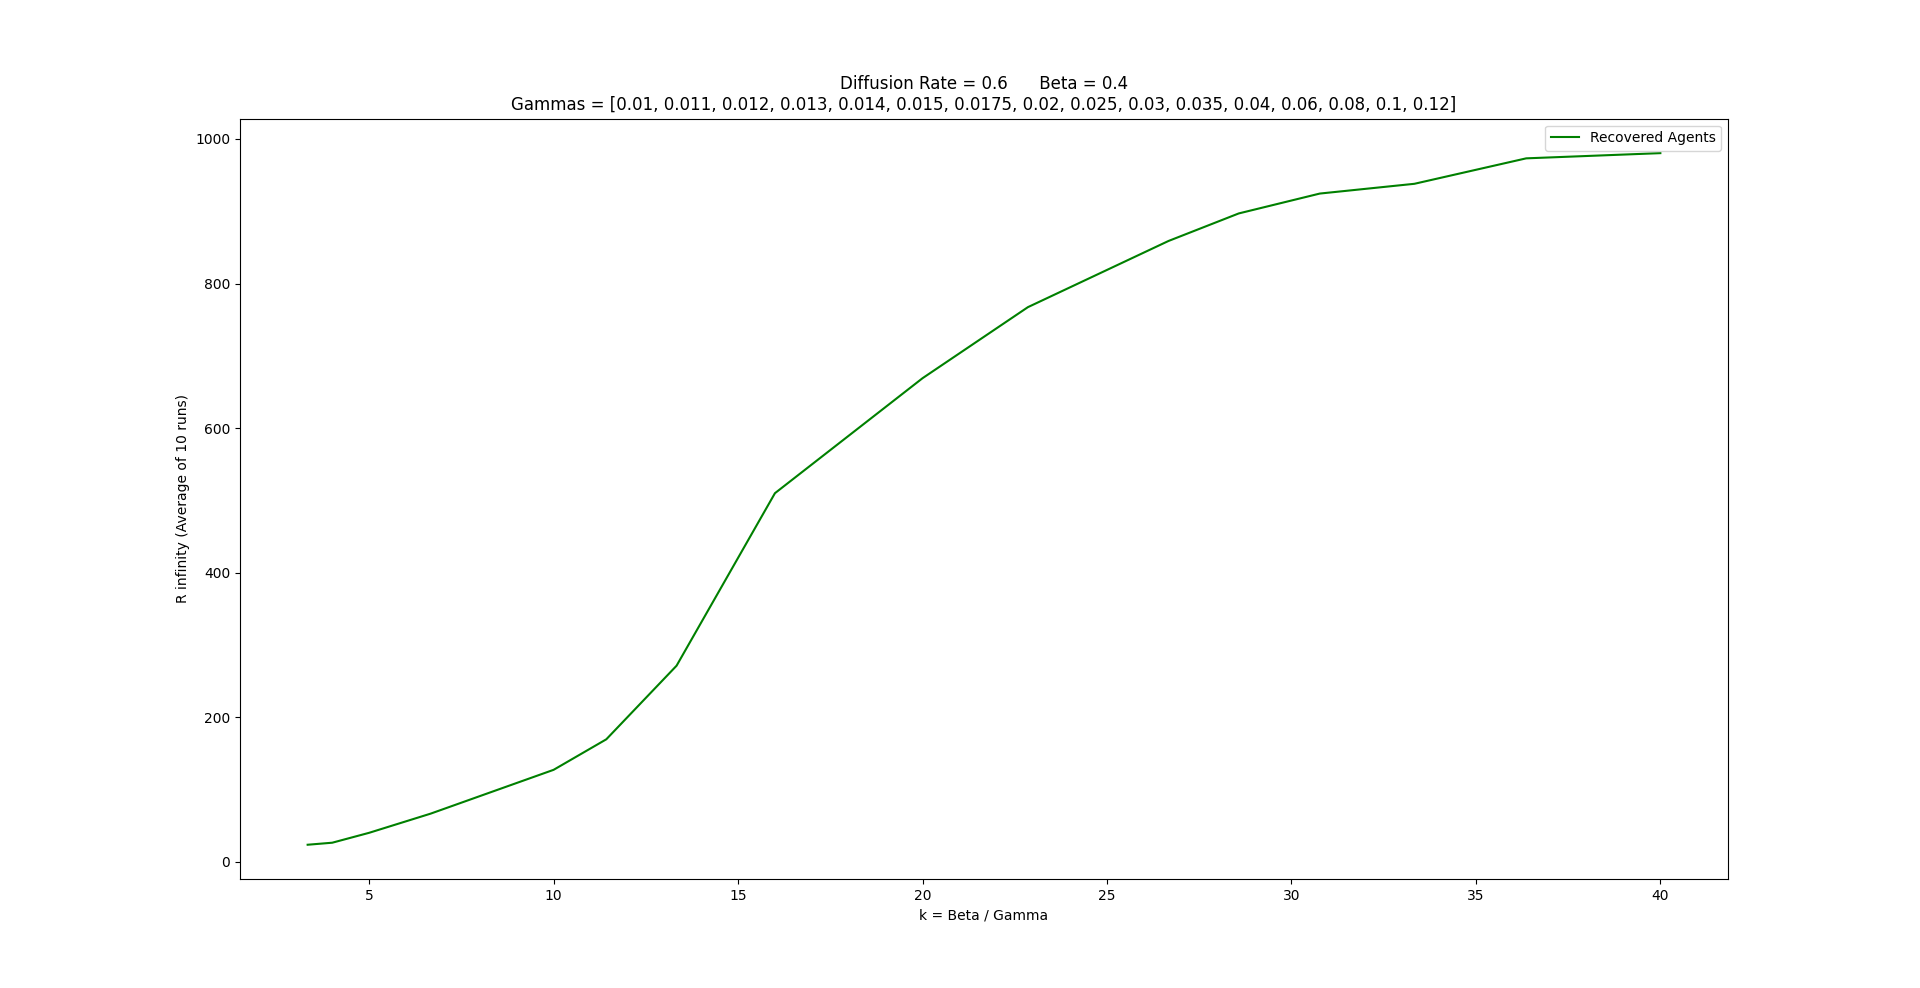
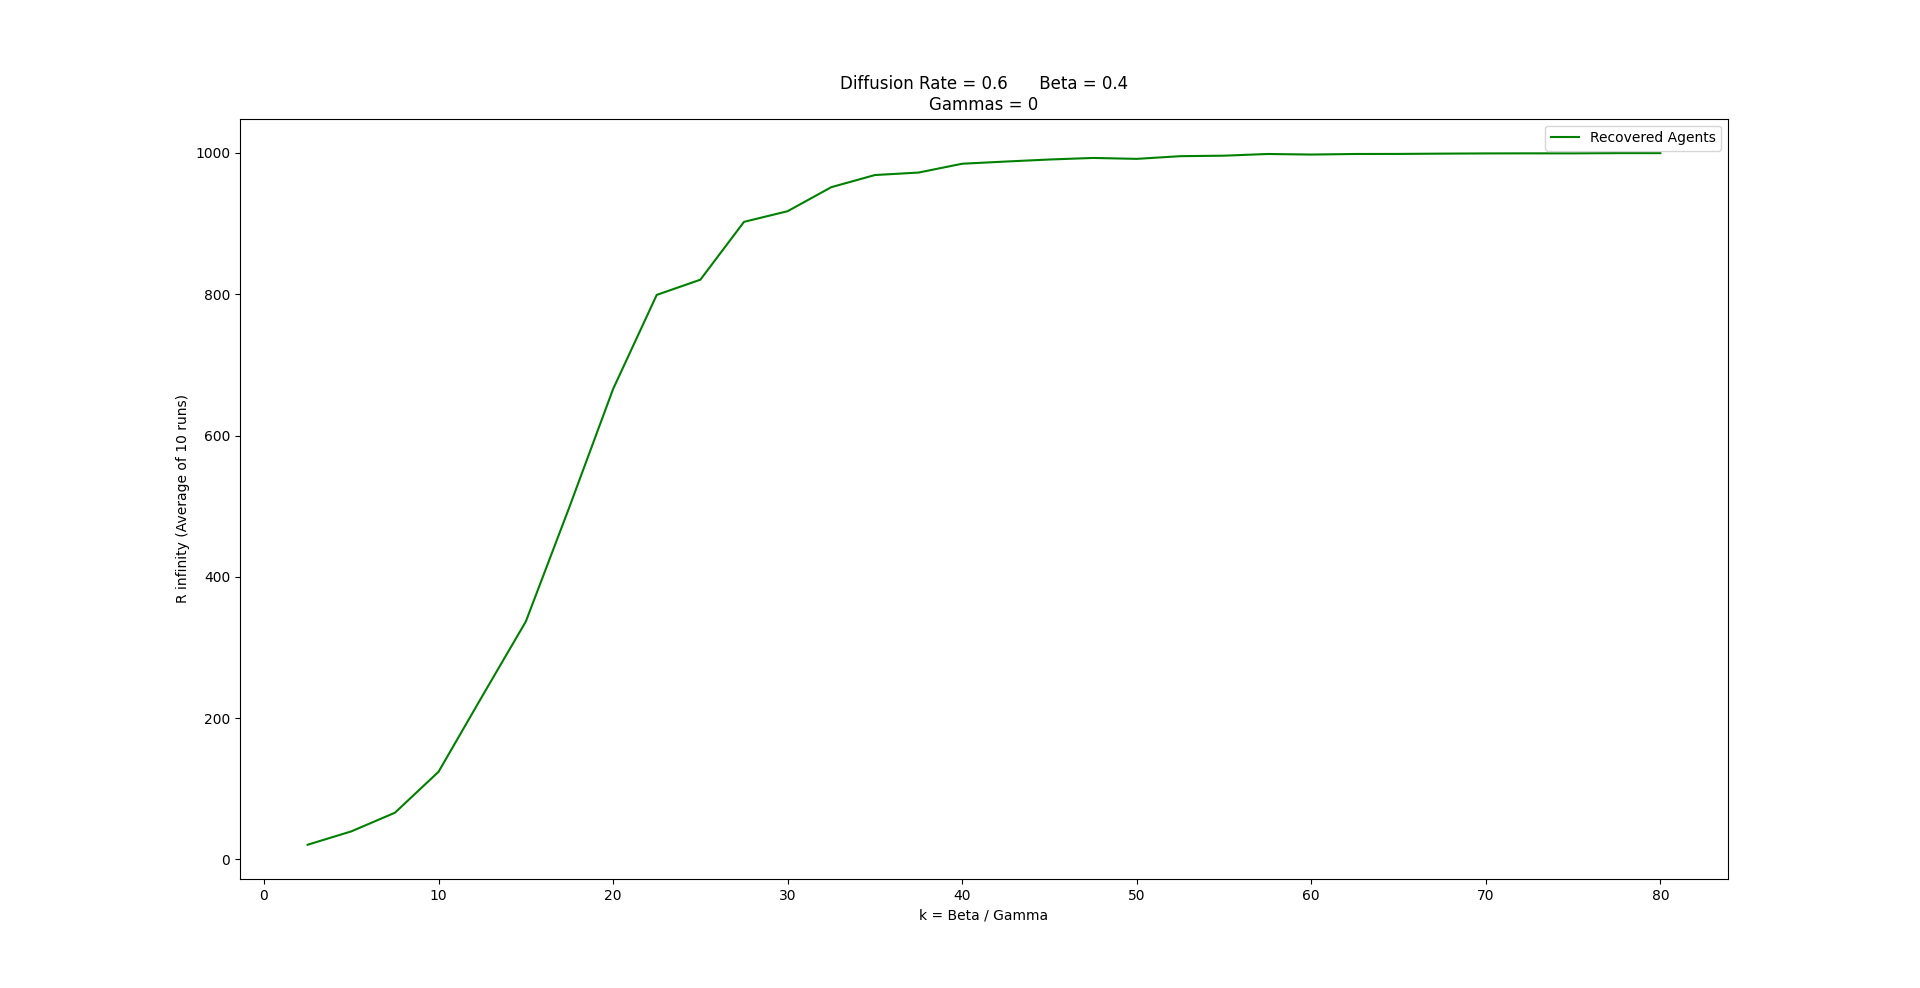
DONE

diff --git a/HW1/HW1.py b/HW1/HW1.py
@@ -380,8 +380,9 @@ def task3():
         for j in range(i * 8, 8 + i * 8):
             SIR.R_infinity_task3[j] = queues[j].get()
 
+    gammas_temp = np.divide(SIR.beta, SIR.k_task3)
     plt.figure()
-    plt.title("Diffusion Rate = " + str(SIR.d) + "      Beta = " + str(SIR.beta) + "\nGammas = 0")
+    plt.title("Diffusion Rate = " + str(SIR.d) + "      Beta = " + str(SIR.beta) + "\nGammas = " + str(gammas_temp[-1]) + " - " + str(gammas_temp[0]) + "   (32 data points)")
     plt.plot(SIR.k_task3, SIR.R_infinity_task3, color='green', label='Recovered Agents')
     plt.ylabel('R infinity (Average of 10 runs)')
     plt.xlabel('k = Beta / Gamma')
